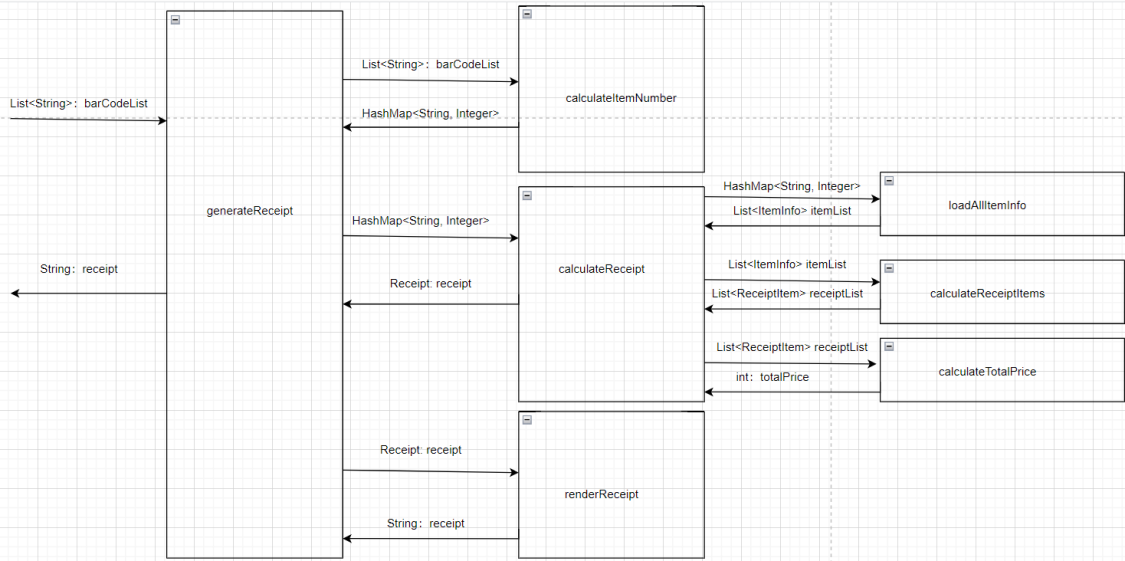
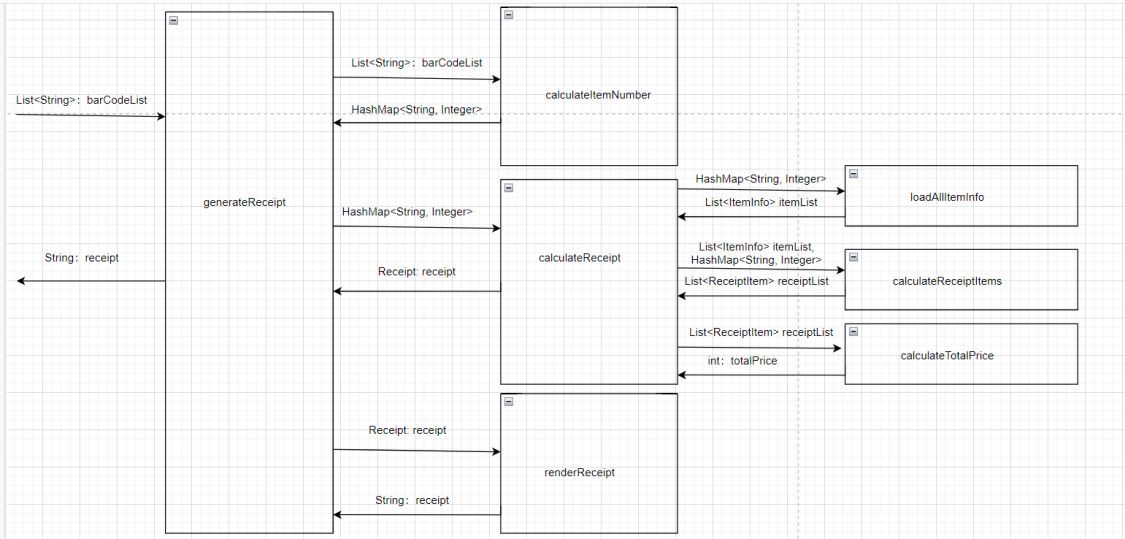
feat: implement calculateReceipt methods

diff --git a/src/main/java/pos/machine/PosMachine.java b/src/main/java/pos/machine/PosMachine.java
@@ -1,11 +1,13 @@
 package pos.machine;
 
+import java.util.ArrayList;
 import java.util.HashMap;
 import java.util.List;
 
 public class PosMachine {
     public String printReceipt(List<String> barcodes) {
         HashMap<String, Integer> barcodesMap = calculateItemNumber(barcodes);
+        Receipt receipt = calculateReceipt(barcodesMap);
         return null;
     }
 
@@ -19,5 +21,30 @@ public class PosMachine {
             }
         }
         return barcodesMap;
+    }
+
+    private Receipt calculateReceipt(HashMap<String, Integer> barcodesMap) {
+        List<ItemInfo> itemList = ItemDataLoader.loadAllItemInfos();
+        List<ReceiptItem> receiptList = calculateReceiptItems(itemList, barcodesMap);
+        int totalPrice = calculateTotalPrice(receiptList);
+        return new Receipt(receiptList, totalPrice);
+    }
+
+    private List<ReceiptItem> calculateReceiptItems(List<ItemInfo> itemList, HashMap<String, Integer> barcodesMap) {
+        List<ReceiptItem> receiptItems = new ArrayList<>();
+        for (ItemInfo itemInfo : itemList) {
+            ReceiptItem receiptItem = new ReceiptItem(itemInfo.getName(), barcodesMap.get(itemInfo.getBarcode()),
+                    itemInfo.getPrice(), itemInfo.getPrice() * barcodesMap.get(itemInfo.getBarcode()));
+            receiptItems.add(receiptItem);
+        }
+        return receiptItems;
+    }
+
+    private int calculateTotalPrice(List<ReceiptItem> receiptList) {
+        int total = 0;
+        for (ReceiptItem receiptItem : receiptList) {
+            total += receiptItem.getSubTotal();
+        }
+        return total;
     }
 }

diff --git a/src/main/java/pos/machine/ReceiptItem.java b/src/main/java/pos/machine/ReceiptItem.java
@@ -1,0 +1,31 @@
+package pos.machine;
+
+public class ReceiptItem {
+    private final String name;
+    private final int quantity;
+    private final int unitPrice;
+    private final int subTotal;
+
+    public ReceiptItem(String name, int quantity, int unitPrice, int subTotal) {
+        this.name = name;
+        this.quantity = quantity;
+        this.unitPrice = unitPrice;
+        this.subTotal = subTotal;
+    }
+
+    public String getName() {
+        return name;
+    }
+
+    public int getQuantity() {
+        return quantity;
+    }
+
+    public int getUnitPrice() {
+        return unitPrice;
+    }
+
+    public int getSubTotal() {
+        return subTotal;
+    }
+}

diff --git a/src/main/java/pos/machine/Receipt.java b/src/main/java/pos/machine/Receipt.java
@@ -1,0 +1,21 @@
+package pos.machine;
+
+import java.util.List;
+
+public class Receipt {
+    private final List<ReceiptItem> receiptItems;
+    private final int totalPrice;
+
+    public List<ReceiptItem> getReceiptItems() {
+        return receiptItems;
+    }
+
+    public int getTotalPrice() {
+        return totalPrice;
+    }
+
+    public Receipt(List<ReceiptItem> receiptItems, int totalPrice) {
+        this.receiptItems = receiptItems;
+        this.totalPrice = totalPrice;
+    }
+}
